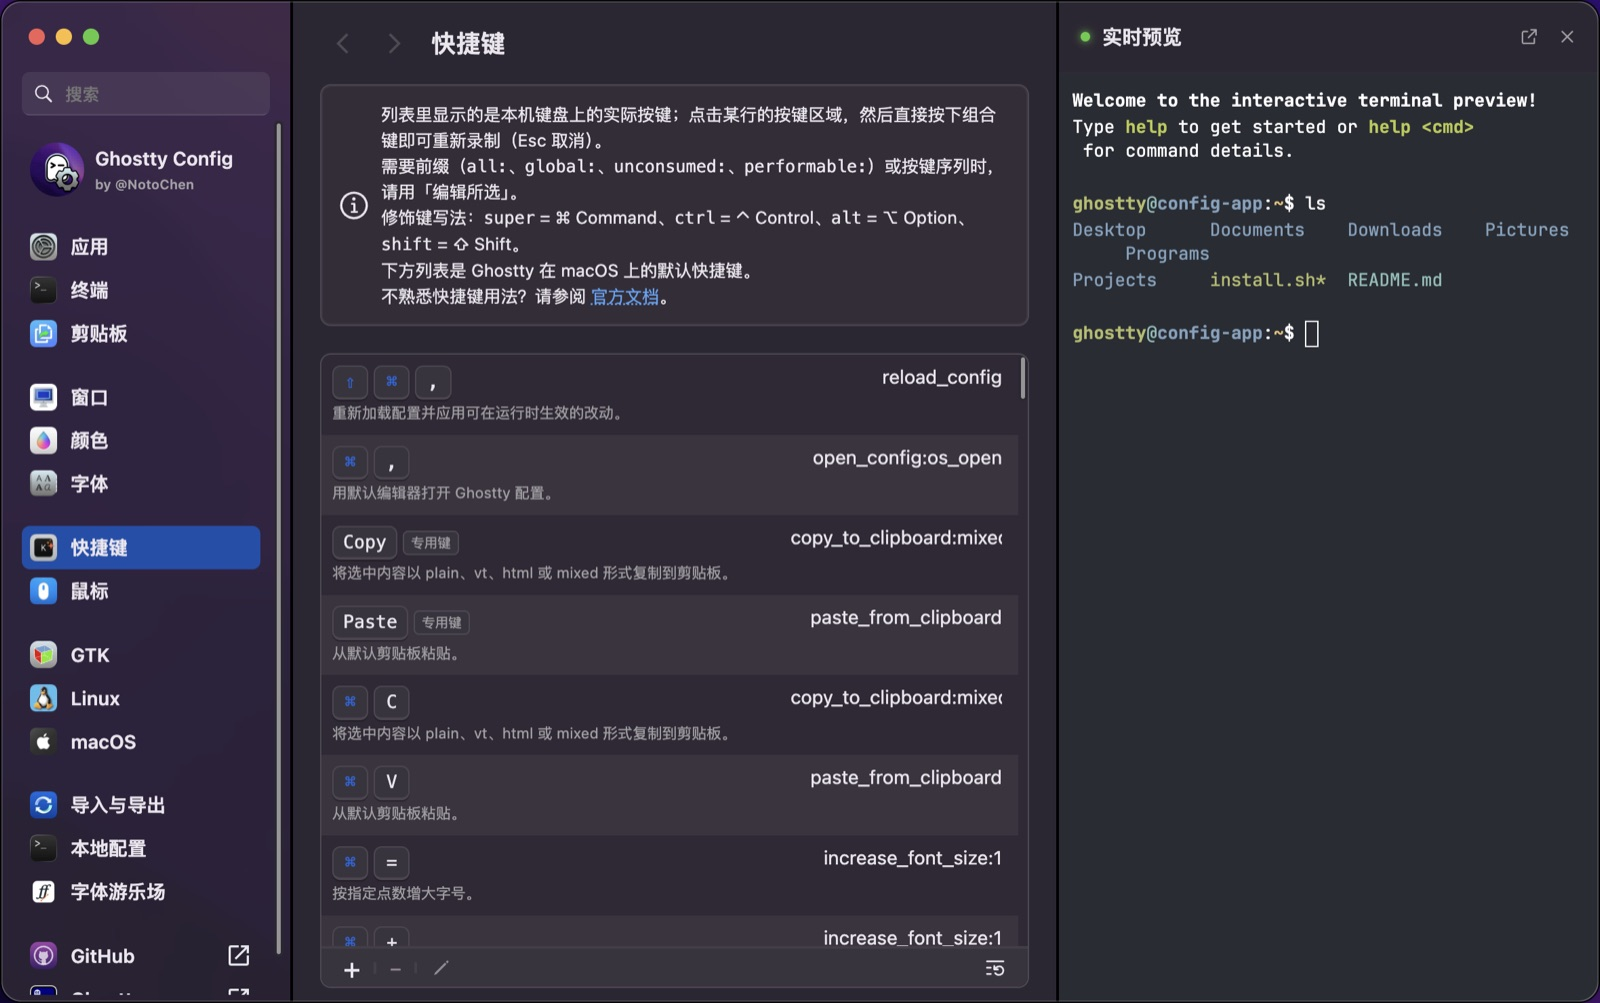
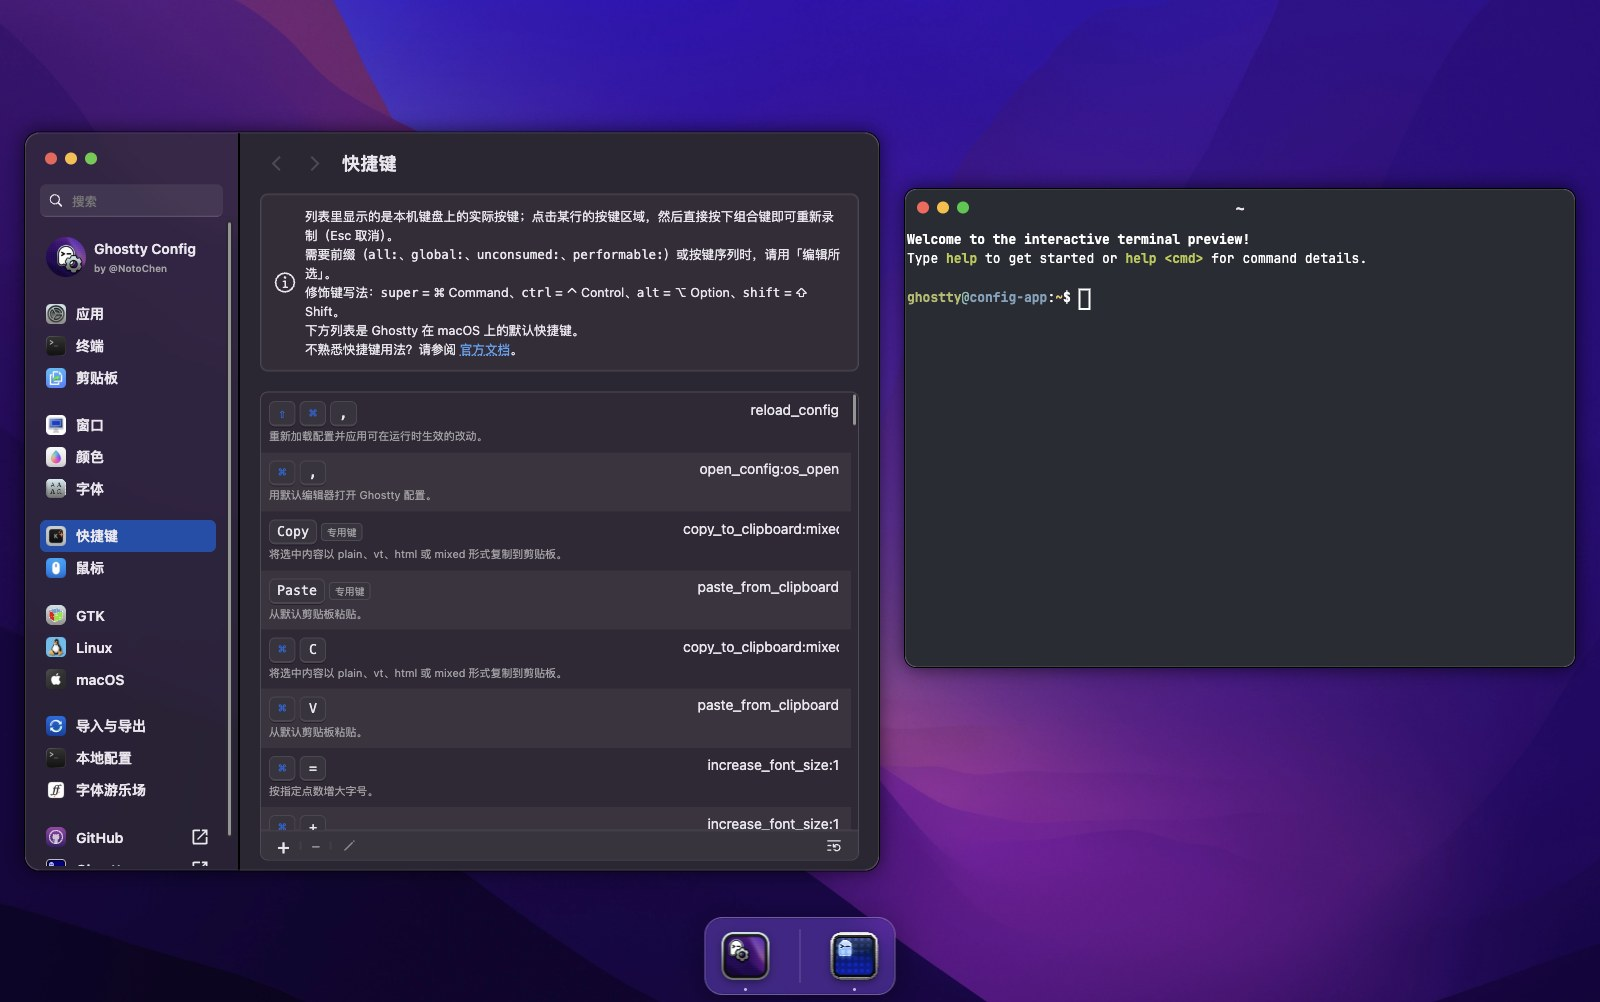
配置窗口和终端窗口真正分开
默认不再是左右分栏的一个窗口，而是两个窗口：配置窗口在左，终端窗口在右，
互不遮挡。终端窗口的位置会被记住，窗口变窄时自动重新贴到配置窗口旁边而不是
压到设置上。

- previewMode 默认改为 floating；新键 ghostty-config:preview:v2 让旧的分栏
  默认值失效，之后的用户选择照常记住
- TerminalPreview 用 --preview-float-width 公布自己的宽度，+layout.svelte 据此
  收窄配置窗口；宽度算错两次的教训写在注释里，不要再把数字写死
- 位置分两层：previewX/Y 是当前坐标，previewUserPlaced 才决定下次是否还原。
  自己算出来的位置每次重新推导，否则在更窄的浏览器窗口里会正好贴住或压住设置
- 首帧放置延后一个 tick，等配置窗口收窄后再测量，否则挂载时量到的是全宽
- 视口变化时重新放置；没被手动改过大小的终端窗口跟着视口按比例缩放
- 文档与四张截图同步为两个窗口的样子

diff --git a/src/lib/components/TerminalPreview.svelte b/src/lib/components/TerminalPreview.svelte
@@ -1,5 +1,5 @@
 <script lang="ts">
-    import {onMount, tick, untrack} from "svelte";
+    import {tick, untrack} from "svelte";
     import {fade, fly} from "svelte/transition";
     import InteractiveTerminalDom from "$lib/views/InteractiveTerminalDom.svelte";
     import app, {clampPreviewWidth, MAX_PREVIEW_WIDTH, MIN_PREVIEW_WIDTH, savePreview} from "$lib/stores/state.svelte";
@@ -10,6 +10,15 @@
     const DEFAULT_HEIGHT = 480;
     const MIN_WIDTH = 420;
     const MIN_HEIGHT = 280;
+
+    /**
+     * Default floating size. It has to leave the config window room beside it — the two are separate
+     * windows now — so on a narrower screen the terminal window starts proportionally smaller
+     * instead of covering the settings.
+     */
+    function defaultFloatingWidth(viewport: number): number {
+        return Math.round(Math.max(MIN_WIDTH, Math.min(DEFAULT_WIDTH, viewport * 0.42)));
+    }
     const MINIMIZE_DURATION = 280;
     const RESTORE_DURATION = 260;
     // Below this width the docked split has no room left for the settings column, so the preview
@@ -20,13 +29,14 @@
 
     let x = $state(0);
     let y = $state(0);
-    let width = $state(DEFAULT_WIDTH);
+    let width = $state(defaultFloatingWidth(typeof window === "undefined" ? 1440 : window.innerWidth));
     let height = $state(DEFAULT_HEIGHT);
     let dragging = $state(false);
     let resizing = $state(false);
     let resizingDock = $state(false);
     let animating = $state(false);
     let viewportWidth = $state(typeof window === "undefined" ? 1440 : window.innerWidth);
+    let viewportHeight = $state(typeof window === "undefined" ? 900 : window.innerHeight);
     let resizeDirection: ResizeDirection | null = null;
     let dragOffsetX = 0;
     let dragOffsetY = 0;
@@ -39,6 +49,10 @@
     let startLeft = 0;
     let startTop = 0;
     let windowElement = $state<HTMLDivElement | null>(null);
+    /** Has the initial spot been decided? It waits for a tick, so the config window can narrow first. */
+    let placed = false;
+    /** Has the visitor set the window's size? A window they sized keeps it across viewport changes. */
+    let userSized = false;
 
     const isDocked = $derived(app.previewMode === "docked" && viewportWidth >= DOCK_MIN_VIEWPORT);
 
@@ -66,9 +80,130 @@
         });
     });
 
-    onMount(() => {
-        x = Math.max(0, (window.innerWidth - width) / 2);
-        y = Math.max(0, (window.innerHeight - height) / 3);
+    // A viewport change moves the floating window with it. Deferred a tick so `.preview-floating`
+    // has re-laid-out before the config window is measured.
+    $effect(() => {
+        const vw = viewportWidth;
+        const vh = viewportHeight;
+        if (isDocked || !placed) return;
+        untrack(() => {
+            void tick().then(() => {
+                if (!isDocked) placeNextToConfig(vw, vh);
+            });
+        });
+    });
+
+    // The config window narrows itself while the terminal is a separate window (see the
+    // `.preview-floating` rule in +layout.svelte). It has to know how much room to leave, and the
+    // floating width is here — publish it as a custom property rather than duplicating the number.
+    $effect(() => {
+        // Both reads are outside `untrack` — the width is the whole point of this effect, and
+        // reading it inside would publish the *first* width only.
+        const px = `${width}px`;
+        const docked = isDocked;
+        untrack(() => {
+            const root = document.documentElement;
+            if (docked) root.style.removeProperty("--preview-float-width");
+            else root.style.setProperty("--preview-float-width", px);
+        });
+    });
+
+    /**
+     * Where a never-placed window starts: immediately right of the config window, top-aligned with
+     * it, so the two read as two windows on the desktop rather than one rectangle. The layout gives
+     * the config window a narrower column when the preview floats (see +layout.svelte), so measure
+     * it rather than guessing. When the viewport is too small for that, cascade with a visible
+     * offset — still a separate window, never a perfectly-aligned overlay.
+     */
+    function defaultPlacement(): {x: number; y: number} {
+        const appRect = document.querySelector(".app-window")?.getBoundingClientRect();
+        const gap = 24;
+        const fallbackTop = appRect ? appRect.top + 56 : Math.max(16, (viewportHeight - height) / 3);
+
+        if (appRect) {
+            const right = Math.round(appRect.right + gap);
+            if (right + width <= viewportWidth - 8) {
+                return {x: right, y: Math.max(8, Math.round(appRect.top + 56))};
+            }
+            // No room beside it: sit over the config window's lower-right, offset on both axes so it
+            // still reads as a window on top rather than a continuation of the one below.
+            return {
+                x: Math.max(0, Math.min(viewportWidth - width - 24, Math.round(appRect.right - width * 0.35))),
+                y: Math.max(0, Math.min(viewportHeight - height - 24, Math.round(fallbackTop + 80))),
+            };
+        }
+
+        return {x: Math.max(0, Math.round((viewportWidth - width) / 2)), y: Math.max(0, Math.round(fallbackTop))};
+    }
+
+    /** Keep a (restored or resized) window fully on screen. */
+    function clampToViewport(nextX: number, nextY: number, vw = viewportWidth, vh = viewportHeight): {x: number; y: number} {
+        return {
+            x: Math.max(0, Math.round(Math.min(nextX, vw - width))),
+            y: Math.max(0, Math.round(Math.min(nextY, vh - height))),
+        };
+    }
+
+    /** Would a window at `nextX`/`nextY` land on the config window? */
+    function coversConfigWindow(nextX: number, nextY: number): boolean {
+        const appRect = document.querySelector(".app-window")?.getBoundingClientRect();
+        if (!appRect) return false;
+        return nextX < appRect.right && nextX + width > appRect.left
+            && nextY < appRect.bottom && nextY + height > appRect.top;
+    }
+
+    /**
+     * Put the window where it belongs for this viewport: on screen, and clear of the config window.
+     * A spot that still satisfies both is kept — it is the visitor's, or a default that still holds.
+     * One that doesn't is re-derived from the config window's current position.
+     */
+    function position(vw: number, vh: number) {
+        const clamped = clampToViewport(x, y, vw, vh);
+        const spot = coversConfigWindow(clamped.x, clamped.y) ? defaultPlacement() : clamped;
+        if (spot.x === x && spot.y === y) return;
+        x = spot.x;
+        y = spot.y;
+        app.previewX = x;
+        app.previewY = y;
+    }
+
+    /**
+     * Keep the window fitting beside the config window. A window the visitor never sized follows the
+     * viewport the way the default size does; otherwise a browser window narrowed from 1600px to
+     * 1200px would leave a 672px terminal with nowhere to sit but on top of the settings.
+     */
+    function placeNextToConfig(vw: number, vh: number) {
+        if (!userSized) {
+            const fitted = defaultFloatingWidth(vw);
+            if (fitted !== width) {
+                width = fitted;
+                // The config window re-narrows from the new `--preview-float-width`; measure after.
+                void tick().then(() => position(vw, vh));
+                return;
+            }
+        }
+        position(vw, vh);
+    }
+
+    // The initial spot is decided once, after the first layout: at mount the config window still
+    // owns the full width on the popped-out first render, so measuring then would put the terminal
+    // on top of it. `tick()` lets `.preview-floating` narrow it first.
+    $effect(() => {
+        if (isDocked || placed) return;
+        untrack(() => {
+            void tick().then(() => {
+                if (isDocked || placed) return;
+                placed = true;
+
+                // Only a spot the visitor chose is restored. A spot we computed ourselves is
+                // re-derived, because it was relative to a layout that may not exist any more.
+                if (app.previewUserPlaced && app.previewX >= 0 && app.previewY >= 0) {
+                    x = app.previewX;
+                    y = app.previewY;
+                }
+                placeNextToConfig(viewportWidth, viewportHeight);
+            });
+        });
     });
 
     // Record what the editor changed so the chips in the preview can name the difference.
@@ -203,6 +338,14 @@
         }
 
         function onUp() {
+            // Remember where the window was left, so it comes back there next visit. Writing the
+            // store fields here (rather than in the move handler) keeps one save per gesture.
+            if (!isDocked) {
+                if (resizing) userSized = true;
+                app.previewUserPlaced = true;
+                app.previewX = x;
+                app.previewY = y;
+            }
             dragging = false;
             resizing = false;
             resizeDirection = null;
@@ -379,7 +522,12 @@
     }
 </script>
 
-<svelte:window onresize={() => viewportWidth = window.innerWidth} />
+<svelte:window
+    onresize={() => {
+        viewportWidth = window.innerWidth;
+        viewportHeight = window.innerHeight;
+    }}
+/>
 
 <div
     bind:this={windowElement}

diff --git a/src/lib/stores/state.svelte.ts b/src/lib/stores/state.svelte.ts
@@ -1,12 +1,21 @@
 interface AppState {
     title: string;
     /**
-     * Where the terminal preview lives. `docked` is the default split layout — settings on the
-     * left, live preview on the right; `floating` is the draggable macOS-style window.
+     * Where the terminal preview lives. `floating` is the default — the config window and the
+     * terminal are two separate windows on the desktop, as in Ghostty itself; `docked` splits one
+     * window into settings + preview, which some visitors prefer on a single screen.
      */
     previewMode: "docked" | "floating";
     /** Width of the docked pane, in px. Dragged on the split divider; remembered across reloads. */
     previewWidth: number;
+    /** Floating only: last window position, so a dragged window comes back where it was left.
+        `-1` means "never placed" — the preview then computes a spot next to the config window. */
+    previewX: number;
+    previewY: number;
+    /** Floating only: did the visitor drag the window? A spot *we* computed is not restored — the
+        layout that produced it may be gone (a narrower browser window), and re-deriving keeps the
+        terminal beside the config window instead of flush against, or on top of, it. */
+    previewUserPlaced: boolean;
     /** On screen? A docked pane that is hidden collapses; a floating window is minimized. */
     previewVisible: boolean;
     /** Floating only: the window is animating into the dock icon. */
@@ -17,7 +26,10 @@ interface AppState {
 
 export const MIN_PREVIEW_WIDTH = 280;
 export const MAX_PREVIEW_WIDTH = 560;
-const STORAGE_KEY = "ghostty-config:preview";
+// Bumped when the default placement changed from docked to floating. A stored `docked` from the
+// old default is indistinguishable from a visitor who never touched it, so the new key gives
+// everyone the new default once; from here on the choice is theirs and persists.
+const STORAGE_KEY = "ghostty-config:preview:v2";
 
 export function clampPreviewWidth(width: number): number {
     if (!Number.isFinite(width)) return MIN_PREVIEW_WIDTH;
@@ -48,6 +60,9 @@ function loadPreview(): Partial<AppState> {
         const saved: Partial<AppState> = {};
         if (data.mode === "docked" || data.mode === "floating") saved.previewMode = data.mode;
         if (typeof data.width === "number") saved.previewWidth = clampPreviewWidth(data.width);
+        if (typeof data.x === "number" && Number.isFinite(data.x)) saved.previewX = data.x;
+        if (typeof data.y === "number" && Number.isFinite(data.y)) saved.previewY = data.y;
+        if (data.userPlaced === true) saved.previewUserPlaced = true;
         if (typeof data.visible === "boolean") saved.previewVisible = data.visible;
         return saved;
     }
@@ -59,8 +74,11 @@ function loadPreview(): Partial<AppState> {
 
 const app: AppState = $state({
     title: "Home",
-    previewMode: "docked",
+    previewMode: "floating",
     previewWidth: 380,
+    previewX: -1,
+    previewY: -1,
+    previewUserPlaced: false,
     previewVisible: true,
     previewMinimized: false,
     previewRestoreRequested: false,
@@ -72,6 +90,9 @@ export function savePreview() {
         previewStorage()?.setItem(STORAGE_KEY, JSON.stringify({
             mode: app.previewMode,
             width: app.previewWidth,
+            x: app.previewX,
+            y: app.previewY,
+            userPlaced: app.previewUserPlaced,
             visible: app.previewVisible,
         }));
     }

diff --git a/src/routes/+layout.svelte b/src/routes/+layout.svelte
@@ -52,7 +52,7 @@
 </svelte:head>
 
 <!-- eslint-disable-next-line svelte/require-optimized-style-attribute -->
-<div class="app-window" style={cssConfigVars}>
+<div class="app-window" class:preview-floating={app.previewMode === "floating" && app.previewVisible} style={cssConfigVars}>
     <div id="sidebar">
         <div class="sidebar-header">
             <div class="window-actions-container">
@@ -189,6 +189,24 @@
     box-shadow: 0 0 20px -1px rgba(0,0,0,0.7);
     border-radius: var(--radius-level-1);
     overflow: hidden;
+}
+
+/* Floating preview: the terminal is its own window, so the config window moves left and narrows
+   just enough to leave it a column of its own. Without this the two windows would sit on top of
+   each other — separate in the DOM, one rectangle on screen. `--preview-float-width` is published
+   by TerminalPreview from the window's actual width.
+
+   The breakpoint is the width at which 24px margin + a 540px config window + the 24px gap + the
+   terminal window all fit. With the terminal at `defaultFloatingWidth()` (42% of the viewport) that
+   solves to ~1055px, so 1080 leaves a little slack. Narrower than that there is no room for two
+   columns, so this rule stays off and the floating window deliberately cascades over the config
+   window instead of squeezing both into slivers. */
+@media (min-width: 1080px) {
+    .app-window.preview-floating {
+        width: max(540px, min(var(--app-width), calc(100vw - var(--preview-float-width, 680px) - 72px)));
+        margin-left: 24px;
+        margin-right: auto;
+    }
 }
 
 /* .app-window .draggable {

diff --git a/AGENTS.md b/AGENTS.md
@@ -133,15 +133,26 @@ Two things are listed but only partially reproducible, so the row text carries t
 
 `+layout.svelte` still owns the live config's colors; a second config's vars come from `utils/configVars.ts` for the side-by-side view.
 
-### Placement: docked by default, floating on request
+### Placement: two windows by default
+
+As in Ghostty itself, the config window and the terminal are **separate windows**: `floating` is the default, and `docked` (one window split into settings + preview) is the alternative a visitor can pick. This is not cosmetic — the user explicitly rejected the split-pane default, so don't quietly flip it back.
 
 `TerminalPreview.svelte` is the **only** surface that hosts `InteractiveTerminalDom`. It renders the same component tree in both placements, so popping the preview out to a window and docking it back keeps scrollback and command history — do not split this back into two components that each mount their own terminal.
 
-`app.previewMode` / `app.previewVisible` / `app.previewWidth` in `stores/state.svelte.ts` are placement-neutral; the old `floatingTerminal*` flags are gone. Keep it that way: `docked` is the default split (settings left, preview right), and anything new that toggles the preview should go through these fields rather than adding another flag.
+`app.previewMode` / `previewVisible` / `previewWidth` / `previewX` / `previewY` / `previewUserPlaced` in `stores/state.svelte.ts` are placement-neutral, and anything new that toggles the preview goes through these fields rather than adding another flag. Placement is a per-visitor convenience persisted in localStorage under `ghostty-config:preview:v2` (never in the config, never exported); `savePreview()` is called from an effect in `TerminalPreview`. The `:v2` suffix exists because a stored `docked` from the old default is indistinguishable from never having touched it — bump the key, don't migrate, if the default changes again.
 
-The docked width has exactly one source of truth: `app.previewWidth`, set as the pane's inline `width` and changed only by the divider (`startDockResize`, plus arrow keys for keyboard users) or `clampPreviewWidth`. Placement — mode, width, visibility — is a per-visitor convenience persisted in localStorage under `ghostty-config:preview` (never in the config, never exported); `savePreview()` is called from an effect in `TerminalPreview` that reads the fields through the store write itself.
+Position has two levels of truth. `previewX`/`previewY` always hold the current spot, but only `previewUserPlaced` (set by a drag/resize, in `onUp`) makes that spot come back on the next visit. A spot the component computed itself is re-derived on every load, because "beside the config window" depends on a layout that may be gone: restoring a computed x from a 1600px visit on a 1280px screen parks the terminal flush against, or on top of, the settings. `-1` means "never placed".
 
-`Page.svelte`'s header is absolutely positioned against `#content-view`, which is `position: relative`, so it stops at the preview pane instead of running underneath it. If you change those anchors, check that narrow views (the pane collapses below a 900px viewport) still render the header correctly.
+The two windows must not overlap, and that takes two halves:
+
+- **The component** publishes its own width as `--preview-float-width` on `document.documentElement` (from an effect that reads `width` *outside* `untrack`, or it publishes only the first value), and positions itself with `defaultPlacement()` — measured off `.app-window` and set just to its right with a 24px gap. `clampToViewport()` keeps a stored or resized window on screen, and `coversConfigWindow()` re-derives any spot that would land on the settings.
+- **`+layout.svelte`** narrows `.app-window.preview-floating` to `calc(100vw - var(--preview-float-width) - 72px)`. Never hardcode the window width into that calc — it was guessed wrong twice; let the component say how much room it needs. Its `min-width: 1040px` is the width at which a 540px settings column and the floating window still both fit; below it the rule stays off and the terminal cascades over the config window on purpose rather than squeezing both into slivers.
+
+Placement runs *after* the layout settles: the initial spot defers through `tick()` because at mount the config window still owns the full width, and measuring then puts the terminal on top of it. Viewport changes do the same, and a window the visitor never resized follows the viewport's default width (`defaultFloatingWidth`); once they resize it, `userSized` keeps their size even when that means the two no longer fit side by side.
+
+The docked width has exactly one source of truth: `app.previewWidth`, set as the pane's inline `width` and changed only by the divider (`startDockResize`, plus arrow keys for keyboard users) or `clampPreviewWidth`. `dockWidthLimit(viewport)` caps it so the settings column keeps ~420px; the clamp effect reads `viewportWidth` on purpose, since `isDocked` stays true across a resize and would otherwise never re-run. Below `DOCK_MIN_VIEWPORT` the docked mode is not used at all.
+
+`Page.svelte`'s header is absolutely positioned against `#content-view`, which is `position: relative`, so it stops at the preview pane instead of running underneath it. If you change those anchors, check that narrow views still render the header correctly.
 
 ### Saying what changed
 
